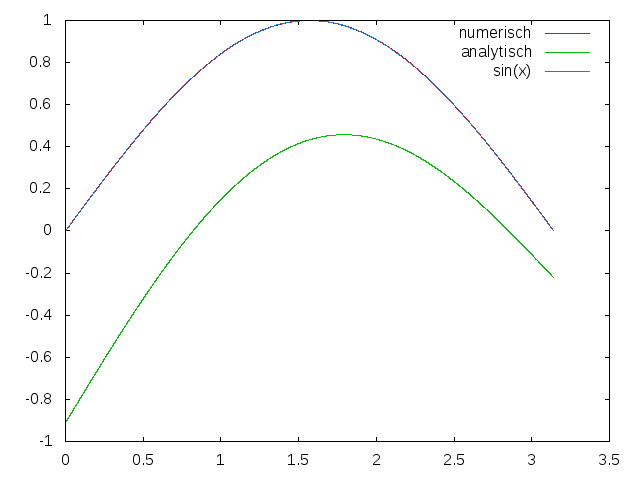
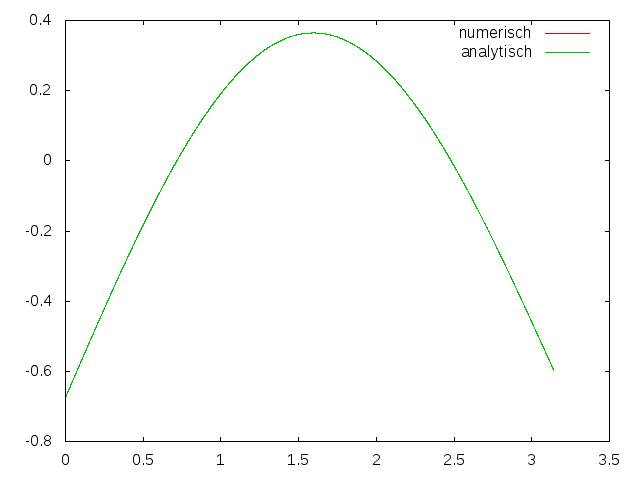
aufg3 done

diff --git a/aufg3.cpp b/aufg3.cpp
@@ -25,7 +25,7 @@ class Fredh2
 		n = N;
 
 		gauleg(a,b,t,w);
-
+		
 		for(int i=0; i<N ; i++)
 		{
 			for (int j=0; j<N; j++)
@@ -37,8 +37,11 @@ class Fredh2
 
 				mat[i][j] -= lambda * w[j]*(t[i] -t[j]);
 			}
+			
+			fvec[i] = 0;
+			gvec[i] = sin(t[i]);
 		}
-
+		
 		LUdcmp alu(mat);
 		alu.solve(gvec,fvec);
 	}
@@ -58,7 +61,7 @@ class Fredh2
 };
 
 // Analytisches Ergebnis zum Vergleich
-const double l = 1; // lambda
+const double l = 10; // lambda
 const double g1=2, g2=M_PI, d1= M_PI, d2=M_PI*M_PI, d3=M_PI*M_PI*M_PI;
 const double A1 = (12*g1+6*l*(g1*d2-2*g2*d1))/(l*l*d1*d1*d1*d1+12);
 const double A2 = (-12*g2+2*l*(3*g2*d2-2*g1*d3))/(l*l*d1*d1*d1*d1+12);
